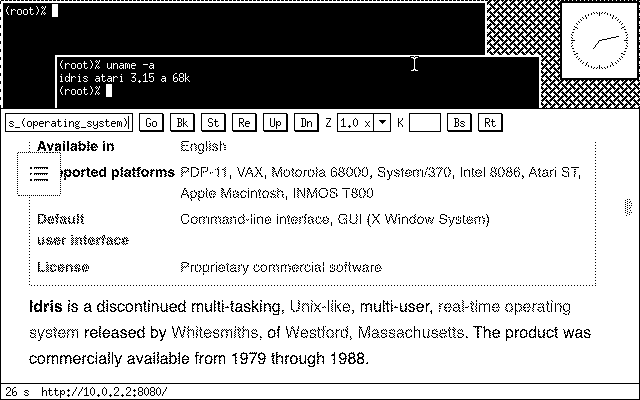
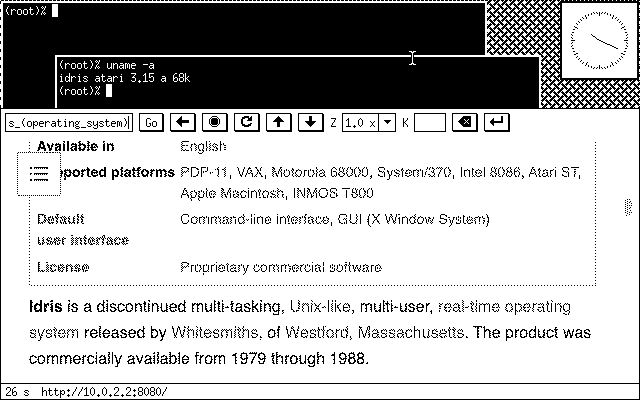
main: draw wrp's buttons as pictures, version 0.2
Bk is a back arrow, St a stop sign, Re a circle arrow, Up and Dn are
arrows, Bs is the backspace key (so it differs from back) and Rt the
return key. Go stays text. New screenshots.

diff --git a/src/main.c b/src/main.c
@@ -19,7 +19,8 @@
  *
  * WRP's form: Archaic sets WRP's settings itself and does not show them.
  * W and H: the picture fills the window. M, T, C: ISMAP, GIF, 2 colors
- * (with -a, the menus for these are shown and used).
+ * (with -a, the menus for these are shown and used). WRP's buttons
+ * (Bk, St, Re, Up, Dn, Bs, Rt) are drawn as pictures: see icons[].
  */
 #include "archaic.h"
 
@@ -173,18 +174,153 @@ int i;
 		fill(x + 1 + PAD + tw(s + n - k, k), y + 1 + PAD, 1, fh, 1);
 }
 
+/* WRP's buttons get pictures, like the buttons of a real browser. (WRP
+ * names them with 2 letters because old browsers can only show text on
+ * a button.) Bk back, St stop, Re reload, Up and Dn scroll the page;
+ * Bs and Rt are Backspace and Return for the K field. # is black. */
+#define IW 13
+#define IH 11
+static char *icons[] = {
+	"Bk",
+	".....#.......",
+	"....##.......",
+	"...###.......",
+	"..####.......",
+	".############",
+	"#############",
+	".############",
+	"..####.......",
+	"...###.......",
+	"....##.......",
+	".....#.......",
+	"St",
+	"....#####....",
+	"...#.....#...",
+	"..#.#####.#..",
+	".#.#######.#.",
+	".#.#######.#.",
+	".#.#######.#.",
+	".#.#######.#.",
+	".#.#######.#.",
+	"..#.#####.#..",
+	"...#.....#...",
+	"....#####....",
+	"Re",
+	"....#####..#.",
+	"..#######.##.",
+	"..###...####.",
+	".##.....####.",
+	".##....#####.",
+	".##..........",
+	".##..........",
+	".##.......##.",
+	"..###...###..",
+	"..#########..",
+	"....#####....",
+	"Up",
+	"......#......",
+	".....###.....",
+	"....#####....",
+	"...#######...",
+	"..#########..",
+	".###########.",
+	".....###.....",
+	".....###.....",
+	".....###.....",
+	".....###.....",
+	".....###.....",
+	"Dn",
+	".....###.....",
+	".....###.....",
+	".....###.....",
+	".....###.....",
+	".....###.....",
+	".###########.",
+	"..#########..",
+	"...#######...",
+	"....#####....",
+	".....###.....",
+	"......#......",
+	"Bs",
+	".....########",
+	"....#########",
+	"...##########",
+	"..####.###.##",
+	".######.#.###",
+	"########.####",
+	".######.#.###",
+	"..####.###.##",
+	"...##########",
+	"....#########",
+	".....########",
+	"Rt",
+	"...........##",
+	"...........##",
+	"...#.......##",
+	"..##.......##",
+	".###.......##",
+	"#############",
+	"#############",
+	".###.........",
+	"..##.........",
+	"...#.........",
+	".............",
+	0
+};
+
+/* the picture of button it, or 0: only WRP's buttons (NAME=Fn) have one */
+static char **icon(it)
+Item *it;
+{
+	int i;
+
+	if (it->type != I_BUTTON || it->form < 0 || it->form >= MAXFORM ||
+		!wrpf[it->form] || !it->name || !strieq(it->name, "Fn") ||
+		!it->text)
+		return (char **)0;
+	for (i = 0; icons[i]; i += IH + 1)
+		if (strieq(icons[i], it->text))
+			return &icons[i + 1];
+	return (char **)0;
+}
+
+/* picture p at x, y: drawn only when all of it is on the page part */
+static void drawicon(x, y, p)
+int x, y;
+char **p;
+{
+	static unsigned char b[IH * ((IW + 7) / 8)];
+	int bpl = (IW + 7) / 8, r, c;
+
+	if (y < 0 || y + IH > viewh)
+		return;
+	for (r = 0; r < IH * bpl; ++r)
+		b[r] = 0;
+	for (r = 0; r < IH; ++r)
+		for (c = 0; c < IW && p[r][c]; ++c)
+			if (p[r][c] == '#')
+				b[r * bpl + c / 8] |= 0x80 >> (c & 7);
+	g_bits(x, y, IW, IH, b, bpl);
+}
+
 static void drawbutton(i)
 int i;
 {
 	Item *it = &items[i];
 	int x = it->x, y = it->y - top, w = it->w, h = it->h, n;
+	char **p = icon(it);
 
 	fill(x, y, w, h, 0);
 	box(x, y, w - 1, h - 1);
 	fill(x + 1, y + h - 1, w - 1, 1, 1);	/* shadow */
 	fill(x + w - 1, y + 1, 1, h - 1, 1);
-	n = len(it->text);
-	text(x + (w - 1 - tw(it->text, n)) / 2, y + 1 + PAD, it->text, n);
+	if (p)
+		drawicon(x + (w - 1 - IW) / 2, y + 1 + (h - 3 - IH) / 2, p);
+	else {
+		n = len(it->text);
+		text(x + (w - 1 - tw(it->text, n)) / 2, y + 1 + PAD, it->text,
+			n);
+	}
 	if (i == pressed)
 		inv(x + 1, y + 1, w - 3, h - 3);
 }
@@ -372,7 +508,8 @@ Item *it;
 		it->h = fh + 2 * PAD + 2;
 		break;
 	case I_BUTTON:
-		it->w = tw(it->text, len(it->text)) + 2 * BPAD + 3;
+		it->w = (icon(it) ? IW : tw(it->text, len(it->text))) +
+			2 * BPAD + 3;
 		it->h = fh + 2 * PAD + 2;
 		break;
 	case I_SELECT:
@@ -1014,6 +1151,8 @@ static void dump()
 			printf(" =\"%s\"", it->val);
 		if (it->type == I_TEXT || it->type == I_BUTTON || it->type == I_IMAGE)
 			printf(" \"%s\"", it->text);
+		if (icon(it))
+			printf(" icon");
 		if (it->type == I_SELECT) {
 			printf(" sel %d:", it->sel);
 			for (j = 0; j < it->nopt; ++j) {

diff --git a/src/archaic.h b/src/archaic.h
@@ -34,7 +34,7 @@
 #define P(a) a
 #endif
 
-#define VERSION "0.1"
+#define VERSION "0.2"
 
 /* WRP's address when none is given: WRP's default port. Whitesmiths C
  * (_WSLAS) means Idris, in the emulator kit, where the host is 10.0.2.2. */

diff --git a/README.md b/README.md
@@ -52,7 +52,7 @@ So Archaic on Idris looks for WRP at `http://10.0.2.2:8080/`.
 Somewhere else: `archaic HOST:PORT`, or `setenv WRP HOST:PORT`.
 
 The ST's own screen, 640 x 400, black and white
-(Archaic under the xterm, after two clicks on **Dn**):
+(Archaic under the xterm, after three clicks on the ↓ button):
 
 ![Archaic on the Atari ST screen: Wikipedia's Idris article](screenshots/idris.png)
 
@@ -83,7 +83,22 @@ archaic [=WxH+X+Y] [-a] [-t] [-v] [-o file.pbm] [-s script] [url]
 | T (picture type) | GIF |
 | C (colors) | 2 |
 
-So WRP's form is one line: the address, Go, Bk, St, Re, Up, Dn, Z (zoom), K (keys), Bs, Rt.
+So WRP's form is one line: the address box, **Go**, WRP's buttons, **Z** (zoom) and **K** (keys).
+
+**WRP's buttons are pictures**, like in a modern browser.
+(WRP names them with 2 letters, because old browsers can only put text on a button.)
+
+| Picture | WRP's name | Does |
+|---|---|---|
+| ← arrow | Bk | back |
+| stop sign | St | stop loading |
+| ↻ circle arrow | Re | reload |
+| ↑ and ↓ arrows | Up, Dn | scroll the web page one screen up or down |
+| ⌫ | Bs | Backspace, for the web page |
+| ↵ | Rt | Return (Enter), for the web page |
+
+To type into a box on the web page: click the box in the picture, type in **K**,
+press Return (WRP types it into the page), then click ↵ if the page needs Enter.
 
 **Mouse**
 
@@ -145,7 +160,7 @@ make test         # sh test/run.sh
 2. Gray and color GIFs decode at the right size.
 3. HTML: title, entities, fields, menus, hidden fields, buttons, links, comments.
 4. A button click sends the form with the right query.
-5. WRP's form: W, H, M, T and C are hidden, and Archaic sends its own values (and with `-a`, the menus).
+5. WRP's form: W, H, M, T and C are hidden, and Archaic sends its own values (and with `-a`, the menus). WRP's 7 buttons are pictures, Go stays text.
 6. With WRP running (default `127.0.0.1:8089`): the start page, then a page with a window-wide picture.
 
 Run WRP for the tests: `wrp -l 127.0.0.1:8089`.
@@ -359,9 +374,9 @@ On DOS or Win16, use the large memory model, or make these smaller in `archaic.h
 
 ## Known limits
 
-- One page at a time. No history of its own: use WRP's **Bk** button.
+- One page at a time. No history of its own: use WRP's back button (← arrow).
 - A page over 30 KB of HTML is cut (WRP's pages are about 3 KB).
-- WRP before commit 3126bc0 (November 2026) could hang for good on **Bk**,
+- WRP before commit 3126bc0 (November 2026) could hang for good on back (← arrow),
   when Chrome took the page from its back-forward cache. Use a newer WRP.
 
 ---
